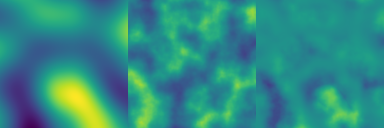
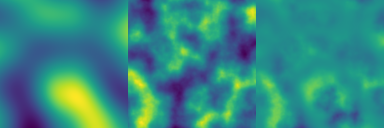
Add exclusion blending operator

diff --git a/include/highmap/op.hpp b/include/highmap/op.hpp
@@ -67,7 +67,7 @@ inline float approx_rsqrt(float a)
 Array atan(const Array &array);
 
 /**
- * @brief Return the 'overlay' blending of two arrays.
+ * @brief Return the 'exclusion' blending of two arrays.
  *
  * See for instance https://en.wikipedia.org/wiki/Blend_modes.
  *
@@ -83,8 +83,24 @@ Array atan(const Array &array);
  * **Result**
  * @image html ex_blend0.png
  * @image html ex_blend1.png
+ * @image html ex_blend2.png
  *
- * @see {@link blend_overlay}, {@link blend_soft}
+ * @see {@link blend_exclusion}, {@link blend_overlay}, {@link blend_soft}
+ */
+Array blend_exclusion(const Array &array1, const Array &array2);
+
+/**
+ * @brief Return the 'overlay' blending of two arrays.
+ *
+ * See for instance https://en.wikipedia.org/wiki/Blend_modes.
+ *
+ * @warning Array values are expected to be in [0, 1].
+ *
+ * @param array1 1st array.
+ * @param array2 2nd array.
+ * @return Array Reference to the resulting object.
+ *
+ * @see {@link blend_exclusion}, {@link blend_overlay}, {@link blend_soft}
  */
 Array blend_overlay(const Array &array1, const Array &array2);
 
@@ -101,7 +117,7 @@ Array blend_overlay(const Array &array1, const Array &array2);
  * @param array2 2nd array.
  * @return Array Reference to the resulting object.
  *
- * @see {@link blend_overlay}, {@link blend_soft}
+ * @see {@link blend_exclusion}, {@link blend_overlay}, {@link blend_soft}
  */
 Array blend_soft(const Array &array1, const Array &array2);
 

diff --git a/examples/ex_blend/ex_blend.cpp b/examples/ex_blend/ex_blend.cpp
@@ -11,13 +11,22 @@ int main(void)
   hmap::Array z1 = hmap::perlin(shape, {2.f, 2.f}, seed);
   hmap::Array z2 = hmap::fbm_perlin(shape, {4.f, 4.f}, seed + 1);
 
+  hmap::remap(z1);
+  hmap::remap(z2);
+
+  auto z_exclusion = hmap::blend_exclusion(z1, z2);
   auto z_overlay = hmap::blend_overlay(z1, z2);
   auto z_soft = hmap::blend_soft(z1, z2);
 
   hmap::export_banner_png("ex_blend0.png",
+                          {z1, z2, z_exclusion},
+                          hmap::cmap::viridis);
+
+  hmap::export_banner_png("ex_blend1.png",
                           {z1, z2, z_overlay},
                           hmap::cmap::viridis);
-  hmap::export_banner_png("ex_blend1.png",
+
+  hmap::export_banner_png("ex_blend2.png",
                           {z1, z2, z_soft},
                           hmap::cmap::viridis);
 }

diff --git a/src/op/blending.cpp b/src/op/blending.cpp
@@ -8,6 +8,13 @@
 namespace hmap
 {
 
+Array blend_exclusion(const Array &array1, const Array &array2)
+{
+  Array array_out = Array(array1.shape);
+  array_out = 0.5f - 2.f * (-0.5f + array1) * (-0.5f + array2);
+  return array_out;
+}
+
 Array blend_overlay(const Array &array1, const Array &array2)
 {
   Array array_out = Array(array1.shape);

diff --git a/tests/sandbox/main.cpp b/tests/sandbox/main.cpp
@@ -15,8 +15,6 @@ int main(void)
   hmap::Array z = hmap::fbm_perlin(shape, res, seed);
   hmap::remap(z);
 
-  hmap::hydraulic_particle_multiscale(z, z, 0.1, {16.f, 8.f, 4.f, 2.f}, seed);
-
   z.to_png("out.png", hmap::cmap::terrain, true);
   z.to_file("out.bin");
 }
